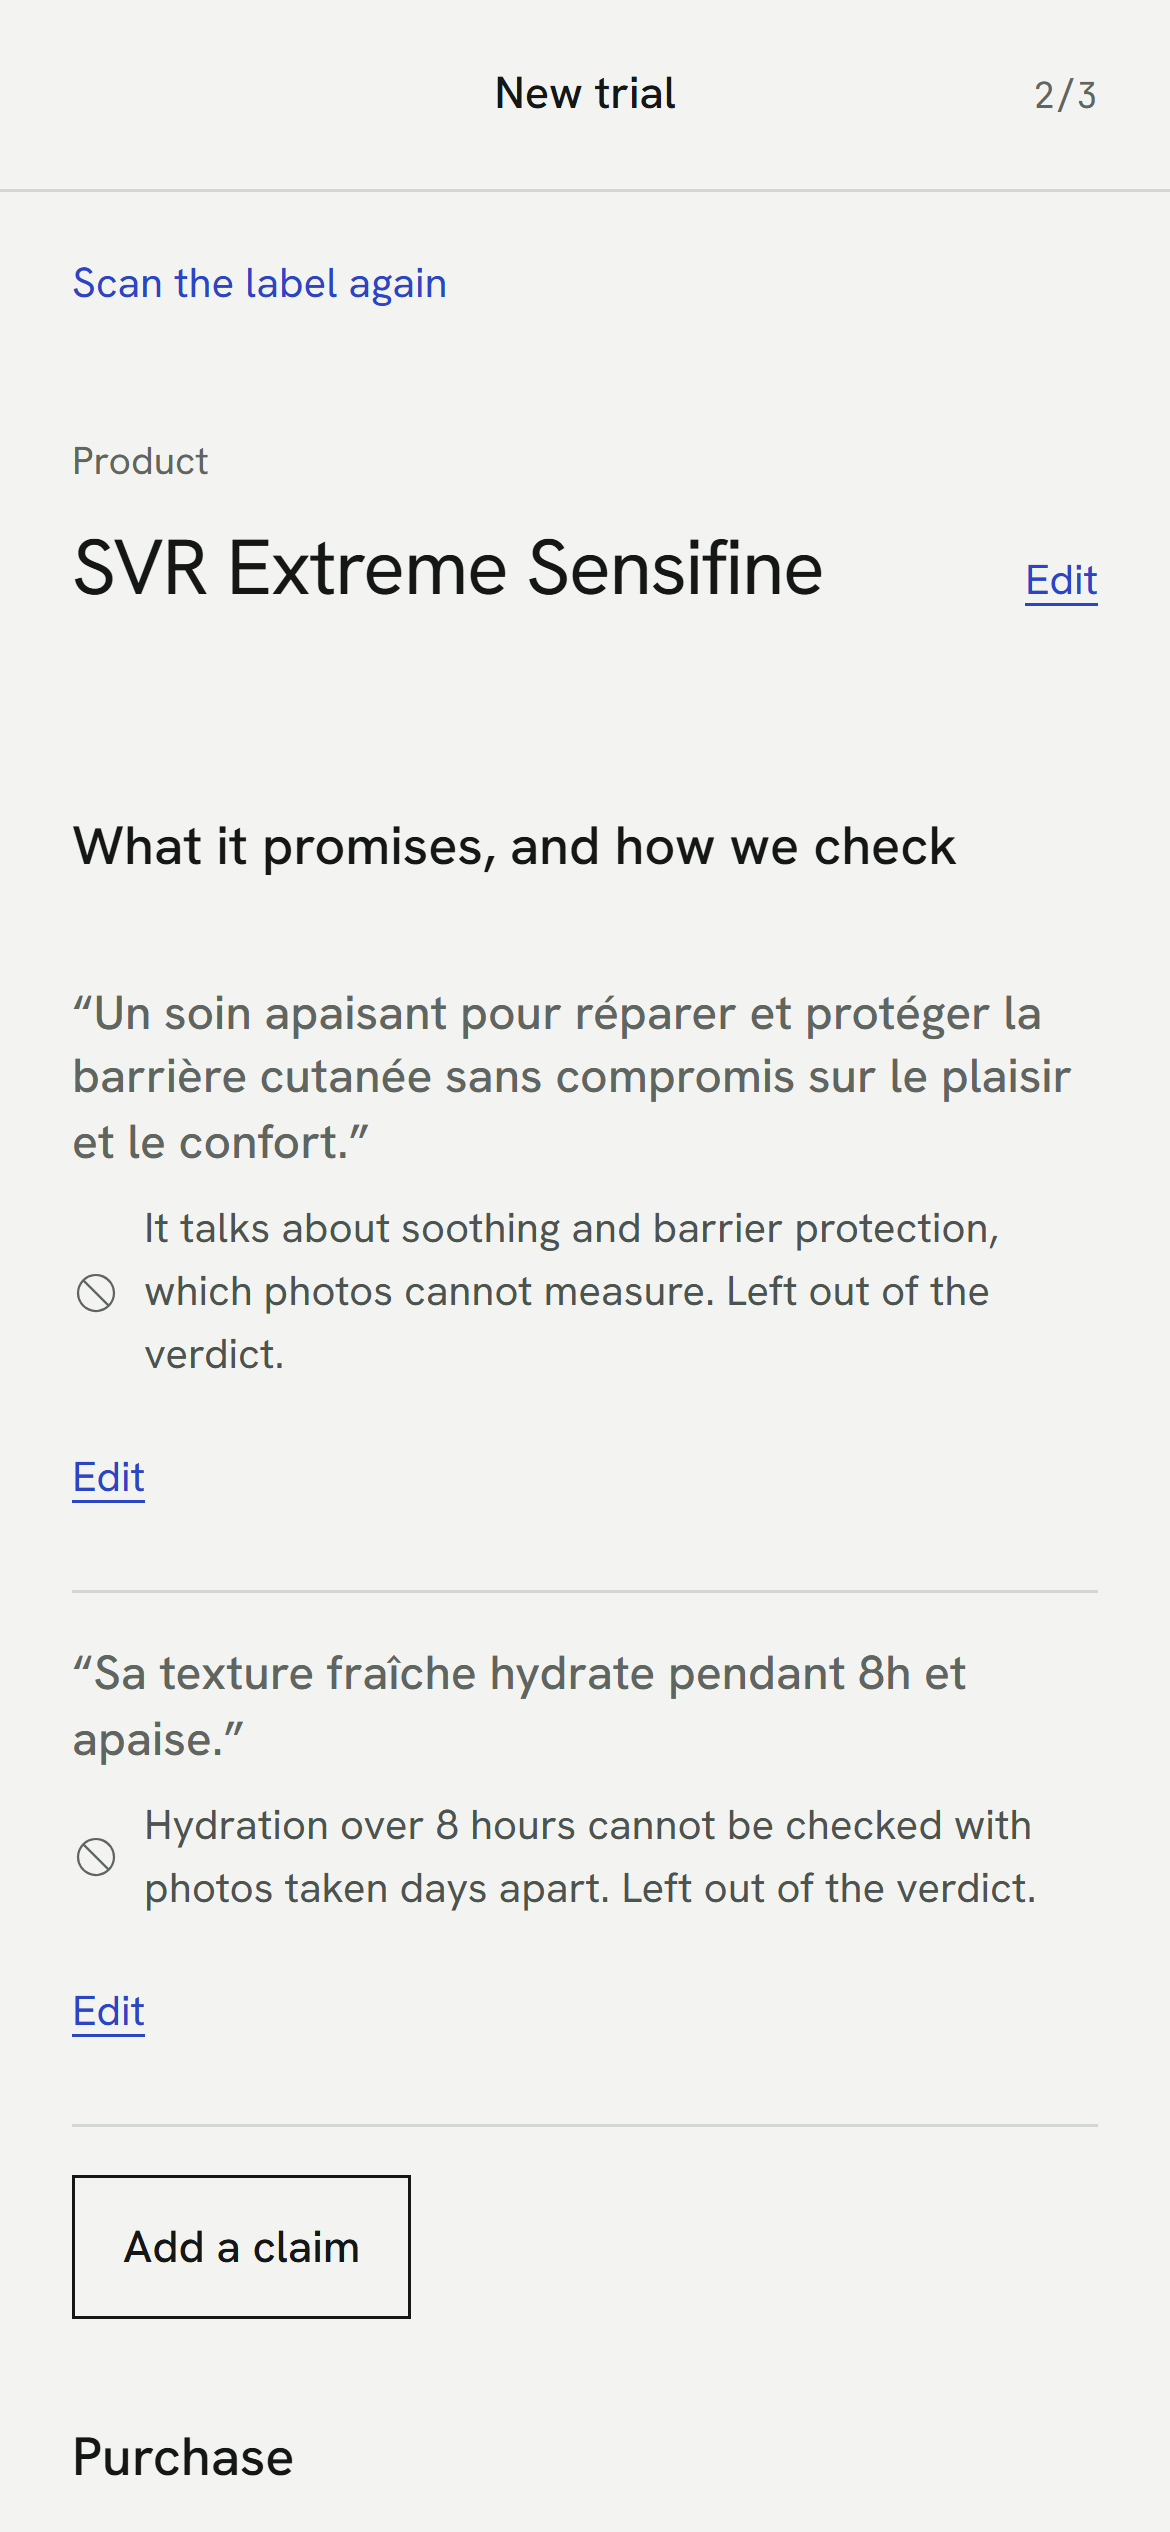
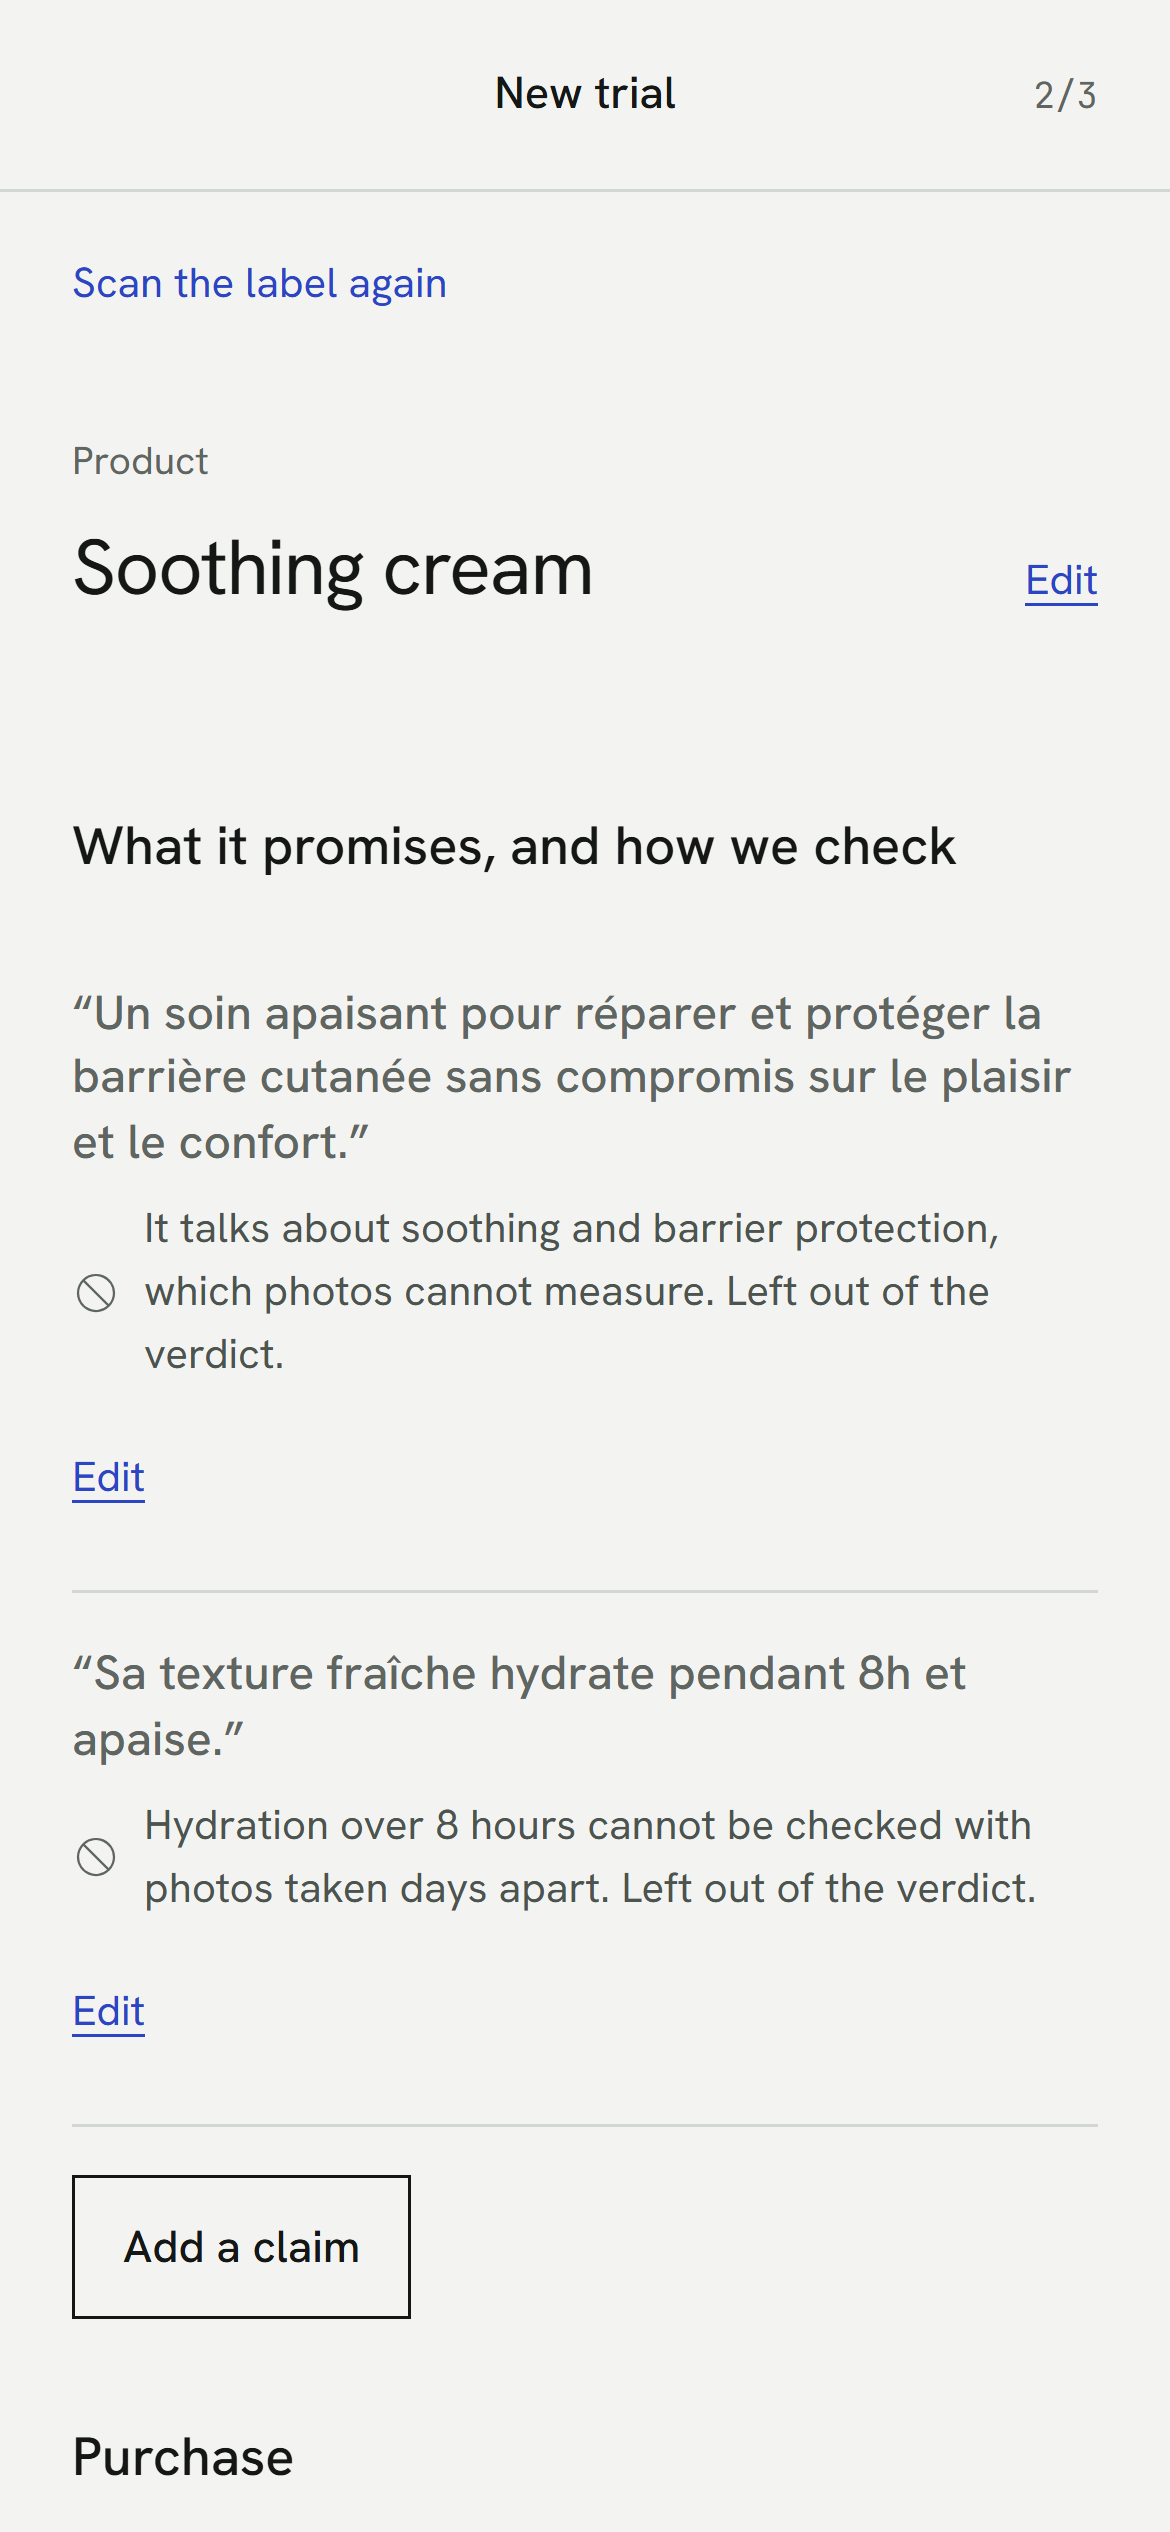
Prepare the Devpost draft: gallery, thumbnail and updated answers
The draft project on Devpost has its text, links, video, thumbnail and
seven gallery images; nothing is submitted. Gallery screenshots now
hide the product's brand name like the video does, and the extra
gallery frames come from the video (synthetic test faces, labelled).
The "hit a wall" answer now tells what happened on the phone.

Changed region(s): [[0.0923, 0.2184, 0.7077, 0.2496]]

diff --git a/tests/e2e/gallery.spec.ts b/tests/e2e/gallery.spec.ts
@@ -15,9 +15,19 @@ import { kit, mockCameraKit } from "./ymk-double";
 const OUT = process.env.GALLERY_DIR;
 const demo = JSON.parse(readFileSync(join(__dirname, "..", "..", "public", "demo", "demo-trial.verdict.json"), "utf8"));
 
-test.beforeEach(({}, info) => {
+// Contest rule for the video, applied to the gallery too: no third party trademark on screen.
+const BRAND = demo.trial.product.name as string;
+
+test.beforeEach(async ({ page }, info) => {
   test.skip(!OUT || info.project.name !== "mobile", "Gallery shots only, phone viewport");
   mkdirSync(OUT!, { recursive: true });
+  await page.addInitScript((brand: string) => {
+    const swap = () => {
+      const w = document.createTreeWalker(document.body, NodeFilter.SHOW_TEXT);
+      for (let n = w.nextNode(); n; n = w.nextNode()) if (n.nodeValue?.includes(brand)) n.nodeValue = n.nodeValue.split(brand).join("Soothing cream");
+    };
+    new MutationObserver(() => document.body && swap()).observe(document, { childList: true, subtree: true, characterData: true });
+  }, BRAND);
 });
 
 // Entrance animations are skipped so every shot shows the settled screen.

diff --git a/PROGRESS.md b/PROGRESS.md
@@ -97,6 +97,8 @@ speckit-specify FAIT (2026-10-17) : specs/001-measured-skincare-trial/spec.md, c
 - 2026-10-24 TRIAL SVR DÉPLACÉ sur https://verdict-skin.vercel.app (export SANS photos depuis verdict-7c54gcwd4, import sur le téléphone ; aucun visage dans le fichier). Les check-ins (31 oct, 7, 14, 19 nov, rappels 16 h) se font désormais sur verdict-skin. Day 0 sans photos sur cette adresse : l'écran Compare n'a pas d'image de jour 0, les chiffres et le verdict sont complets. Secret de contournement révoqué.
 - 2026-10-24 T090 PARTIEL : 5 captures dans docs/screenshots (landing, claims = vraie lecture de l'étiquette SVR rejouée, capture sans visage, timeline démo, privacy), faites sur la build de prod via tests/e2e/gallery.spec.ts (GALLERY_DIR + E2E_VERCEL_BYPASS, secret révoqué après). Verdict + carte review à refaire après le check-in du 31 oct (même script). Corrigé au passage : avec « Réduire les animations », les entrées décalées apparaissent tout de suite (globals.css animation-delay 0) ; PAS ENCORE DÉPLOYÉ (prochain déploiement prod).
 - 2026-10-24 VIDÉO 1er MONTAGE : video/out/verdict-demo.mp4 (1:52, 1080p, -16 LUFS, gitignoré). Chaîne : video/voice.py (Piper, venv beneficia) → `npx next start -p 3770` (build prod) → node video/record.mjs (une prise, iframe téléphone + légendes, visages SYNTHÉTIQUES étiquetés, réponses YouCam réelles rejouées, marque masquée « Soothing cream ») → node video/build.mjs. Provenance de chaque scène : docs/video-script.md. Piège : Playwright 1.64 n'écrivait aucune vidéo avec ffmpeg-1013 contenant un binaire build-1011 → `npx playwright install --force ffmpeg`. VALIDÉE par l'utilisateur le 2026-10-24 ; EN LIGNE sur YouTube https://youtu.be/BytZCRZm_bE (reporté dans README, DEVPOST.md, docs/video-script.md).
+- 2026-10-24 BROUILLON DEVPOST créé (NON soumis, NON publié) : https://devpost.com/software/verdict-sg5zmt (project 1506295, submission 1260779 « Draft »). Nom, tagline, description complète (README sans marque), built_with, liens app + démo, vidéo, vignette (docs/gallery/thumbnail.jpg) et 7 images de galerie (verdict, landing, claims, capture, compare, démo, privacy ; marque masquée partout, visages synthétiques étiquetés). Captures 2 et 4 refaites avec la marque masquée (gallery.spec.ts). Réponse « wall » de DEVPOST.md mise à jour (strict + YMK.capture()).
+- AVANT SOUMISSION (accord auteur obligatoire) : rendre le dépôt public (ou le partager avec contact_event@PerfectCorp.com), puis champs de soumission : type Individual, pays, App Status New, URL du dépôt, 3 réponses (DEVPOST.md « Devpost questions »), lien social facultatif. Après le check-in du 31 oct : republier la démo, ajouter éventuellement les captures verdict + carte review.
 - EN ATTENTE : T033 (10 étiquettes + clé Anthropic), T038 chemin scan, T028 fixtures.
 - Chromium 1248 installé pour Playwright 1.64. Lancer les e2e contre le serveur dev : E2E_BASE_URL=http://localhost:3762 npx playwright test
 - PARTIEL : T028 (fixtures) → attend la vraie calibration T002.

diff --git a/DEVPOST.md b/DEVPOST.md
@@ -96,5 +96,11 @@ come back once per face region plus a whole face value, which is useful for a la
 talking about yet?** Consumer protection: return windows, warranty claims and product testing
 by consumer organizations need a repeatable before and after measurement, not a one time score.
 
-**Where did you hit a wall technically? How did you work around it?** Pending the camera kit and
-upload tests on a phone; the plan and fallbacks are in `specs/001-measured-skincare-trial/research.md`.
+**Where did you hit a wall technically? How did you work around it?** The camera kit on a real
+phone. With the strict quality preset, the kit reported face, position and angle as good but
+lighting as only "ok" under ordinary indoor light, and never captured by itself. A throwaway probe
+page on an iPhone showed it, and also showed that `YMK.capture()`, present on the SDK object but not
+in the docs, takes the photo on demand. Verdict now offers a manual capture once face, position and
+angle are good, and refuses it in poor light. The same probe showed that the photo is 1080 px wide
+and takes the shape of its container, so the capture area is never wider than tall: the short side
+stays at 1080 px, the HD minimum. Details in `specs/001-measured-skincare-trial/research.md` (R2).

diff --git a/docs/screenshots/README.md b/docs/screenshots/README.md
@@ -1,13 +1,14 @@
 # Gallery screenshots
 
-Taken on 2026-10-24 from the production build behind https://verdict-skin.vercel.app, phone
+Taken on 2026-10-24 from a production build of the live code, phone
 viewport (390 x 844 at 3x), by `tests/e2e/gallery.spec.ts`:
 
 ```
 GALLERY_DIR=docs/screenshots E2E_BASE_URL=<deployment url> E2E_VERCEL_BYPASS=<secret> npx playwright test tests/e2e/gallery.spec.ts --project=mobile
 ```
 
-No face photo appears in any image.
+No face photo appears in any image. The product's brand name is replaced by "Soothing cream"
+(contest rule for the video, applied to the gallery too).
 
 | File | Screen | Data shown |
 |---|---|---|
@@ -19,3 +20,10 @@ No face photo appears in any image.
 
 The verdict and review card screens need a measured check-in. They are added after the
 author's Oct 31 check-in, from the same script.
+
+## Devpost gallery
+
+`docs/gallery/` holds the extra images used on Devpost, all frames of the demo video (synthetic test
+faces, labelled; brand hidden): `6-capture-synthetic.jpg`, `7-verdict-synthetic.jpg`,
+`8-compare-synthetic.jpg`, and `thumbnail.jpg` (the verdict frame padded to 3:2). Gallery order on
+Devpost: verdict, landing, claims, capture, compare, author's trial, privacy.
